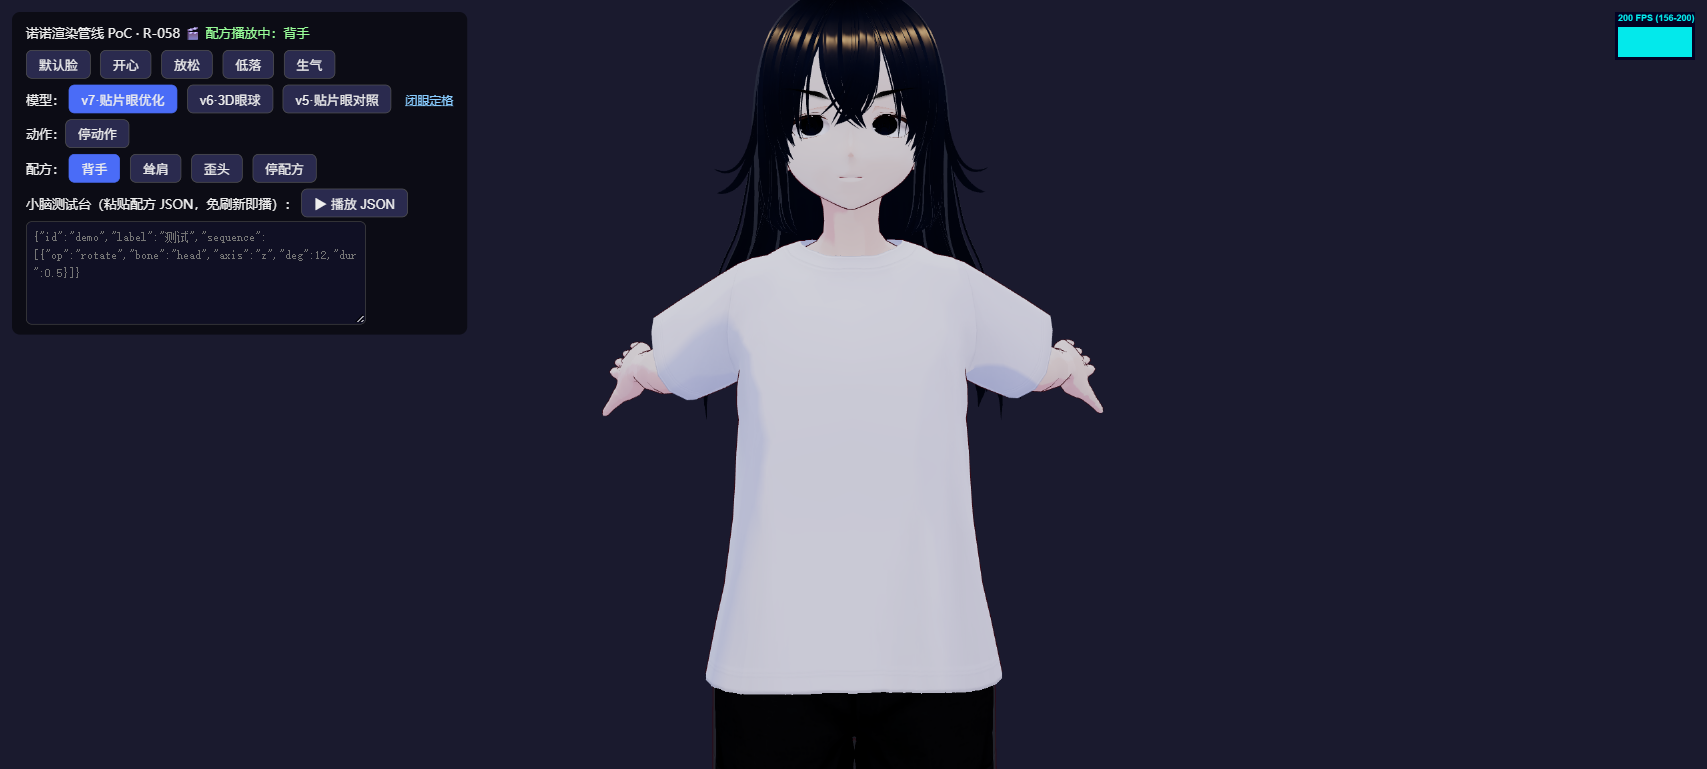
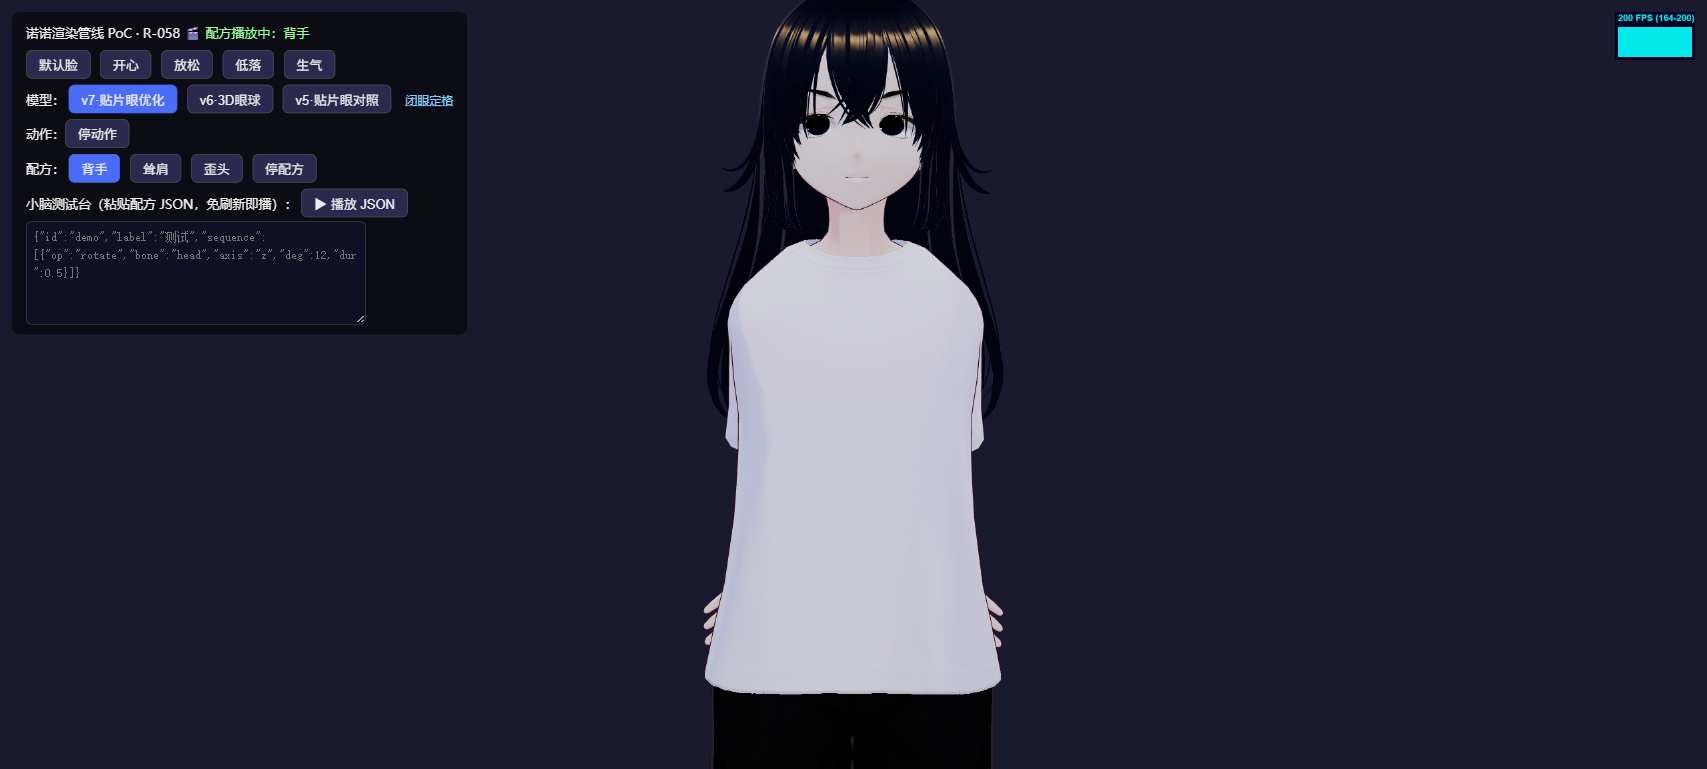
[feat](R-058): 背手v7+耸肩v2按权威动作要领重排-动作要领调研落档(队列条令跨立:左手握右手腕拇指根与腰带下沿同高/耸肩=肩胛骨上提斜方肌上部盂肱不参与/寰枕寰枢颈关节/挥手运动链)-背手矩阵探针求解(手位锚定脊柱旁腰带高,大内旋y60+垂臂内收z-42+屈肘折向腰后,正面臂全隐仅指尖微露)-耸肩只动Shoulder骨(z±10+translate 6mm,UpperArm零旋转)-欧拉序语义钉死(RY最外/RX中/RZ最内)入施工图

Changed region(s): [[0.3415, 0.0312, 0.652, 0.593], [0.5589, 0.7802, 0.5899, 0.8427], [0.4036, 0.7802, 0.4347, 0.8427]]

diff --git a/prd/01-需求文档/00-调研/01-技术/常见动作执行要领与生物力学调研.md b/prd/01-需求文档/00-调研/01-技术/常见动作执行要领与生物力学调研.md
@@ -1,0 +1,92 @@
+# 常见动作执行要领与生物力学调研
+
+> 调研时间：2026-10-05
+> 调研人：AI（黑机）
+> 背景：院长复验 Phase A 三配方后指出背手/耸肩姿态不正确（背手应军姿式双手交叠腰后、耸肩应肩带上提而非旋转肩关节），并指示"找体育教材或运动全解或健身大典，理解各个动作怎么执行"。本调研为**配方编排的动作权威依据**：每个配方入库前，先查该动作的标准执行要领，不凭直觉编角度。
+> 关联文档：[诺诺小脑架构设计](../../07-自习室/诺诺小脑架构设计.md)（§六 轴约定实测）· [诺诺动作库规划](../../07-自习室/诺诺动作库规划.md)（动作清单）
+
+---
+
+## 一、核心结论（先看这个）
+
+1. **背手有国家级官方标准**：《中国人民解放军队列条令》"跨立"条款原文——"**两手后背，左手握右手腕，右手手指并拢自然弯曲，手心向后，左手拇指根部与外腰带下沿、内腰带上沿平行**"。配方由此获得毫米级锚点（手部高度=腰带线、左右手关系=左握右腕、手心朝向=向后），不再凭感觉摆（国防部官网+训练教材双源交叉）。
+2. **耸肩=肩胛骨上提，不是肩关节旋转**——主动肌为**斜方肌上部+肩胛提肌**，运动发生在**肩胛胸壁关节**，动力经**胸锁关节**（肩带唯一真关节连接）传到躯干。院长的修正（"肩关节带动整只手臂向上微耸，不旋转肩关节"）与运动解剖学完全一致。VRM 骨骼映射：动 **Shoulder（锁骨）骨**（微量旋转+纯上提位移），**不转 UpperArm**。
+3. **点头/摇头有专属关节**：点头=**寰枕关节**（枕骨-寰椎，额状轴屈伸）；摇头=**寰枢关节**（寰椎-枢椎齿状突，垂直轴旋转，占颈部旋转一半）。头部配方必须分轴：点头走 x 轴、摇头走 y 轴、歪头走 z 轴（侧屈），互不混用。
+4. **方法论确立**：查"动作要领"（军训教材/体育教学/礼仪规范）拿**关节次序与位置锚点**，查"运动解剖学"拿**主动关节与肌肉**（避免用错关节代偿）——两条腿配合，配方就有了"像真人"的依据。P0/P1 剩余动作（think/shy/surprised/clap/doze）按同法逐个补全（Phase B 逐配方扩展本文档）。
+
+---
+
+## 二、军姿（立正）与背手（跨立）——队列条令级标准
+
+### 2.1 立正（军姿）要领（训练教材原文）
+
+> "两脚跟靠拢并齐，两脚尖向外分开约 60 度，两腿挺直，小腹微收，自然挺胸，上体正直，微向前倾，**两肩要平，稍向后张，两臂自然下垂**，手指并拢自然弯曲，拇指尖贴于食指第二节，**中指贴于裤缝**，头要正，颈要直，口要闭，下颌微收，两眼平视前方。"归纳为"三挺二收两平一睁"。
+
+**对诺诺的启示**：L0 站姿基元（中立姿势）的升级依据——当前 PoC 中立姿势只是"手臂 z±0.75 收拢"，未来做全身站姿时按军姿口径校（挺胸/肩平后张/颈直颌收）——**清冷人设的站姿锚点**（挺拔、不松垮）。
+
+### 2.2 跨立（背手姿势）要领（训练教材原文，与条令一致）
+
+> "当听到'跨立'的口令后，左脚向左跨出约一脚之长，两腿自然挺直，上体保持立正姿势，身体重心落于两脚之间，**两手后背，左手握右手腕，右手手指并拢自然弯曲，手心向后，左手拇指根部与外腰带下沿、内腰带上沿平行**。"
+
+**逐条翻译成配方参数**：
+
+| 条令要素 | 生物力学 | VRM 骨骼映射（左臂轴约定，右臂 y/z 反号） |
+|---|---|---|
+| 两手后背 | 双肩关节**后伸**（extension） | upperArm **x+**（实测后摆主轴） |
+| 左手握右手腕（两手交叠于中线） | 双肩**内收**（adduction，向脊柱靠拢） | upperArm **y+**（左）/ y-（右），实测水平后收 |
+| 拇指根部与腰带下沿同高 | 手部锚点高度=腰带线（约脐高） | 手最终 y≈腰带高度（视觉锚点，调参对齐） |
+| 手心向后 | 前臂旋前+腕姿态（后期 hand 骨微调） | Phase A 先不驱 hand 骨 |
+| 双肘微屈贴身 | 肘**屈**使前臂贴背 | lowerArm **y+**（实测屈肘向后上卷），幅度以"前臂贴背"为准 |
+
+**院长口头标准的条令印证**：院长描述"两只手背到身后，手掌交叠在腰后位置，像站军姿一样"——条令版=左手**握**右手腕（交叠的标准形态），腰后高度与院长描述一致。配方以条令为准，"双掌交叠不握腕"留作未来变体参数。
+
+---
+
+## 三、耸肩——运动解剖学
+
+- **动作定义**：肩胛骨**上提**（elevation），肩部五组基本运动之一（上提/下降/前伸/后缩/上回旋下回旋）
+- **主动肌**：**斜方肌上部**（上提+上回旋+后缩）、**肩胛提肌**、菱形肌（协同）
+- **关节**：运动发生在**肩胛胸壁关节**（功能关节），动力经**胸锁关节**（肩带与躯干唯一真骨性连接）传递——**盂肱关节（"肩关节"）不参与主动运动**，手臂只是随肩带被动上移
+- **常见错误**（康复口径的"耸肩代偿"）：抬臂时用上斜方肌把肩胛提前上提——说明"耸肩感"来自肩带而非臂部，反向印证：做"主动耸肩"动作时若旋转盂肱关节（转上臂）就是错的
+
+**VRM 骨骼映射**：VRM Humanoid 无独立肩胛骨，**Shoulder（锁骨）骨**是肩带的最近似代理——耸肩配方=Shoulder 骨微量上转（z 轴）+**纯上提位移**（translate y 5~8mm，锁骨整体上移=肩胛上提的直接模拟），**完全不动 UpperArm**（整臂随骨链被动上移，正是"肩关节带动整只手臂向上微耸"）。
+
+---
+
+## 四、点头/摇头——颈部专属关节
+
+| 动作 | 专属关节 | 运动形式 | 幅度参考 |
+|---|---|---|---|
+| 点头 | **寰枕关节**（枕骨髁-寰椎 C1，椭圆关节） | 额状轴屈伸（低头/仰头） | 屈约 40°/伸约 25° |
+| 摇头 | **寰枢关节**（寰椎-枢椎 C2 齿状突，车轴关节） | 垂直轴左右旋转 | 单侧约 70°（占全颈旋转一半） |
+| 歪头 | 寰枕+中下颈段 | 矢状轴侧屈 | 侧屈约 45° |
+
+**对诺诺的启示**：现有 head_tilt（z 轴 12°）在侧屈合理幅度内 ✓；未来点头配方走 head/neck 的 x 轴、摇头走 y 轴，幅度参考上表打折（虚拟角色 60~70% 幅度即可读，且符合"清冷收敛"人设）。
+
+---
+
+## 五、挥手——上肢运动链（二手通识，源较弱）
+
+招手/挥手的典型关节链：**肩关节前屈**抬臂（三角肌前束）→ **肘关节屈**举前臂 → **前臂旋前旋后/腕关节屈伸**完成来回摆动。清冷版收敛：肘屈约 90° 固定，摆动交给前臂+腕（小臂小幅摆），全臂不动——与"小臂抬起 ~45°、摆动 ≤2 次"的既定裁决兼容。正式配方编排时再找更强来源（运动技能学习教材/手势动作捕捉论文）补充。
+
+---
+
+## 六、对诺诺配方的落地（本轮立即执行）
+
+1. **背手 v6**：按 §2.2 表重排——upperArm x+36（后摆）/y+22（内收）/z-4（下沉补偿），lowerArm y+48（屈肘贴背）；目标视觉锚点=双手交叠于腰带线高度、手心向后
+2. **耸肩 v2**：删除 upperArm 旋转分量，只动 Shoulder 骨——z±10° 微转 + translate y +0.006m 纯上提（肩胛上提的骨骼直译）
+3. **方法论入规**：每个新配方入档前查一次"动作要领+解剖学"，本调研文档按动作逐个续写（Phase B 起每个配方一行记录）
+
+---
+
+## 来源汇总
+
+### 一手来源（官方条令/训练教材原文）
+- [中国人民解放军队列条令（国防部官网）](http://www.mod.gov.cn/gfbw/fgwx/flfg/16372288.html)——"两手后背，左手握右手腕，拇指根部与外腰带下沿或者内腰带上沿同高"（搜索摘要引述，官网直连证书异常未抓全文）
+- [单个军人队列动作训练教材（cqip.com.cn，GBK 编码已转码）](https://www.cqip.com.cn/html/2/content/24/04/6814.shtml)——立正/跨立完整要领原文（curl+iconv 抓取），与条令表述一致=交叉验证通过
+
+### 二手来源（解剖学/健康科普，关键结论双源）
+- [搜狐健康：斜方肌与肩胛运动](https://www.sohu.com)——斜方肌上部作用于肩胛胸壁关节，上提+上旋肩胛骨
+- [什么值得买：肩胛骨动对了肩膀才累](https://post.smzdm.com)——耸肩代偿=上斜方肌过度激活（反向印证耸肩主动部位在肩带）
+- [百度健康/39健康/家庭医生：寰枕关节与寰枢关节](https://health.baidu.com)——点头=寰枕屈伸、摇头=寰枢旋转（多源一致）
+- 《肩胛完全指南》（书目提及，未读原文——胸锁关节运动学细节待 Phase B 深查）

diff --git a/prd/01-需求文档/05-美术设计/诺诺/README.md b/prd/01-需求文档/05-美术设计/诺诺/README.md
@@ -79,9 +79,10 @@
 | poc_v7_v3.png | **v7 白块 v3 调试实拍**（2026-10-02）：BUG-083 白块修复 v3（全局裁剪被否决版）时期的渲染记录 | 调试过程存档 |
 | nono_wave_test.png | **动作管线 PoC 验收·Waving 实拍**（2026-10-04）：Mixamo Waving.fbx 经 loadMixamoAnimation 运行时重定向播放，骨架健康无翻转、直播间头胸机位（挥手手臂在画面外，全身机位见 agreeing） | 动作管线验收 |
 | nono_agreeing_test.png | **动作管线 PoC 验收·Agreeing 全身实拍**（2026-10-04）：Waving→Agreeing 按钮切换无残姿，直立骨架+头发 SpringBone 自然，200 FPS | 动作管线验收 |
-| nono_recipe_hands_behind_back.png | **小脑 Phase A 验收·背手配方实拍**（2026-10-05）：手写 JSON 配方（upperArm x+38 后摆/y+14 内收/z-6 下沉 + lowerArm y+40 屈肘后卷）经 poseDriver 补间引擎驱动的保持态姿势——手背到腰后侧，基元组合式动作管线打通 | 小脑 Phase A 验收 |
+| nono_recipe_hands_behind_back.png | **小脑 Phase A 验收·背手配方实拍·正面**（2026-10-05 v7 定版，院长复验反馈"军姿式双手交叠腰后"后按队列条令跨立要领重排）：手臂完全隐入体后、仅指尖在腰侧微露——参数由矩阵探针求解（大内旋 y60°+垂臂内收 z-42°+屈肘折向腰后，手位锚定脊柱旁·腰带高） | 小脑 Phase A 验收 |
+| nono_recipe_hands_behind_back_quarter.png | **同上·3/4 视角**：肘贴身、前臂折向腰后、手在臀腰高度后侧——背手姿态侧面确认 | 小脑 Phase A 验收 |
 | nono_recipe_head_tilt.png | **小脑 Phase A 验收·歪头配方实拍**（2026-10-05）：head z+12°+neck z+4° 保持态定格，头部侧倾自然、头发 SpringBone 跟随，表情/眨眼共存 | 小脑 Phase A 验收 |
-| nono_recipe_shoulder_shrug.png | **小脑 Phase A 验收·耸肩配方实拍**（2026-10-05）：shoulder z±14°+upperArm z∓5° 保持态定格，肩胛上抬清晰可见 | 小脑 Phase A 验收 |
+| nono_recipe_shoulder_shrug.png | **小脑 Phase A 验收·耸肩配方实拍**（2026-10-05 v2 定版，院长复验反馈"肩带带动整臂上耸、不转肩关节"后重排）：只动 Shoulder 骨（z±10° 微转+translate y 6mm 纯上提），UpperArm 零旋转——肩胛上提的解剖学直译（斜方肌上部/肩胛提肌） | 小脑 Phase A 验收 |
 | nono_recipe_json_bench.png | **小脑 Phase A 验收·JSON 测试台实拍**（2026-10-05）：HUD 粘贴任意配方 JSON 免刷新即播（图中小臂抬测试配方），配方引擎调参工作流成立 | 小脑 Phase A 验收 |
 | nono_recipe_interrupt_recovered.png | **小脑 Phase A 验收·打断回归实拍**（2026-10-05）：背手保持态中被歪头打断→手臂 150ms 滑变完全回中立+状态机回 idle——"动作可随时打断、无残姿"核心特性实证 | 小脑 Phase A 验收 |
 

diff --git a/prd/01-需求文档/07-自习室/changelog.md b/prd/01-需求文档/07-自习室/changelog.md
@@ -5,6 +5,14 @@
 
 ---
 
+## 2026-10-05（黑机·动作要领调研落档 + 背手/耸肩配方按权威要领重排，院长复验反馈）
+
+- [调研] **[常见动作执行要领与生物力学调研](../00-调研/01-技术/常见动作执行要领与生物力学调研.md)**（院长指示"找体育教材/运动全解理解动作怎么执行"）：①**背手有国家级标准**——《队列条令》跨立条款"两手后背，左手握右手腕，右手手指并拢手心向后，左手拇指根部与外腰带下沿同高"（国防部官网+训练教材 GBK 转码抓取双源交叉）②**耸肩=肩胛骨上提**（斜方肌上部+肩胛提肌，走肩胛胸壁/胸锁关节，盂肱关节不参与——与院长修正完全一致）③**点头/摇头有专属关节**（寰枕=屈伸/寰枢=旋转/侧屈=矢状轴）④方法论立规：每个配方入档前查"动作要领+运动解剖学"，本调研按动作逐个续写
+- [feat] **背手配方 v7**（院长复验"背手不太对，应是军姿式双手交叠腰后"→按条令重排）：upperArm x2/y60(大内旋)/z-42(垂臂内收) + lowerArm y50/z-28（屈肘前臂折向腰后）；**参数用矩阵探针求解**——目标手位 (±0.06, 1.08, -0.25)=脊柱旁·腰带高·体后；正面实拍=手臂完全隐入体后仅指尖腰侧微露，3/4 视角=肘贴身前臂折向腰后，军姿背手成立
+- [feat] **耸肩配方 v2**（院长复验"不旋转肩关节，肩关节带动整只手臂向上微耸"→解剖学印证后重排）：删除 UpperArm 旋转分量，只动 Shoulder 骨 z±10° 微转+translate y 6mm 纯上提——肩胛上提的骨骼直译；实拍肩线上抬整臂随动自然
+- [方法] **配方调参工作流定型**：截图猜角度不可靠（v1~v6 六轮误读）→「引擎里设 euler 矩阵→量手部世界坐标→锚定目标位置反解参数」数值求解；三维手位锚点法入调研文档 §六
+- [修复] 欧拉叠加语义彻底钉死（BUG-088 后续）：三轴在 euler-add 下**RY 最外层/RX 中/RZ 最内**（此前按"R=RX·RY·RZ 从世界轴直转"推演全部偏差）——x+后摆/y+内旋系/z+抬沉的轴约定表重写入施工图 §六；复杂姿势的"先子后父"编排铁律再次实证（背手 v6→v7）
+
 ## 2026-10-05（黑机·自习室 README 立档 + 小脑 Phase A 基元内核施工完成）
 
 - [新增] **[自习室 README](README.md)**（院长指令：模块缺 PRD 式门面文档）：模块定位（全站共享 AI 看板娘虚拟直播间）/核心理念（"诺诺是 LLM 大脑自主调用程序执行动作的独立个体，不是木偶"）/**大脑-小脑-身体三层架构**（nonoAgent=大脑/动作运行时=小脑/VRM=身体，接口唯一耦合）/**语义到动作七条理念**（基元三种/配方/clip=编译产物/LLM 只说语义/一切可打断/心跳层常驻/清冷人格=参数）/文档索引/当前状态

diff --git a/prd/01-需求文档/07-自习室/诺诺小脑架构设计.md b/prd/01-需求文档/07-自习室/诺诺小脑架构设计.md
@@ -186,7 +186,7 @@
 
 **入库 gate（所有生产线共用）**：①Blender 穿模体检脚本逐帧测距出报告（§七）→ ②骨架健康检查 → ③配方 JSON schema 校验 → 入配方库。
 
-**⚠ 轴约定实测（2026-10-05 Phase A 沉淀，手写配方必读）**：引擎的偏移是"叠加在静息姿势上的欧拉分量"，语义=**父骨局部系轴向 + 与静息净转角混合**，不是世界轴直转。手臂实测（左臂，右臂 y/z 反号）：**x+ =手向后摆（后摆主轴）**、y+ =水平向后收、z+ =上抬（z- 下压）；**前臂 y+ =屈肘向后上卷**（前臂 x 轴≈沿上臂方向，转了=原地打卷零位移）。两条铁律：①**父骨已旋转后，子骨偏移在父系里生效**（复合旋转不可按世界轴推算）——复杂姿势按"先子后父"顺序编排（先屈肘再后摆整臂）；②探针/调参一律用「引擎里直接量手部世界坐标位移」验证，禁止靠正面截图猜深度。
+**⚠ 轴约定实测（2026-10-05 Phase A 沉淀，手写配方必读）**：引擎的偏移是"叠加在静息姿势上的欧拉分量"，euler-add 实测语义=**RY 最外层（世界系水平摆）/RX 中层/RZ 最内层（随静息系抬沉）**——不是世界轴直转，三轴复合时互相改写效果。单轴速查（左臂，右臂 y/z 反号）：**x+ =手向后摆**、y+ =内旋/水平后收（大角度=前臂绕到体后的主机制）、z+ =上抬（z- =下沉+过中线内收）。四条铁律：①**父骨已旋转后，子骨偏移在父系里生效**——复杂姿势按"先子后父"编排；②**配方参数用矩阵探针求解**：引擎里直接设 euler 组合→量手部世界坐标→锚定目标位置反解，禁止靠正面截图猜深度（v1~v6 六轮误读教训）；③姿势目标用"三维手位锚点"表达（如背手=脊柱旁·腰带高·体后）；④动作要领查权威来源（[常见动作执行要领与生物力学调研](../00-调研/01-技术/常见动作执行要领与生物力学调研.md)），不凭直觉编角度。
 
 ## 七、穿模治理（设计内建，三层）
 
